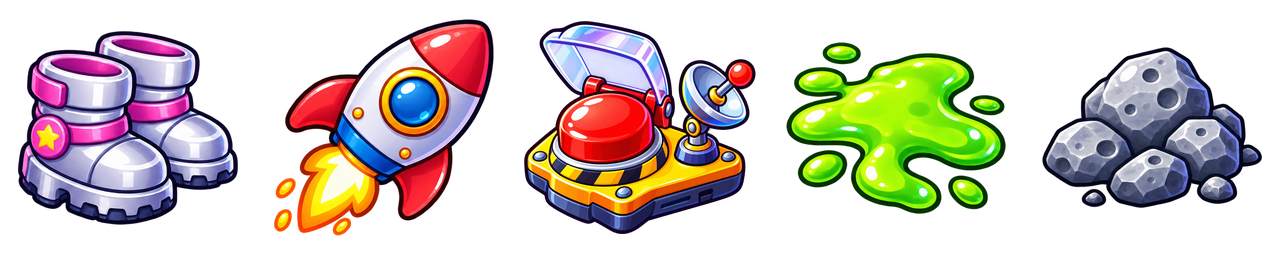
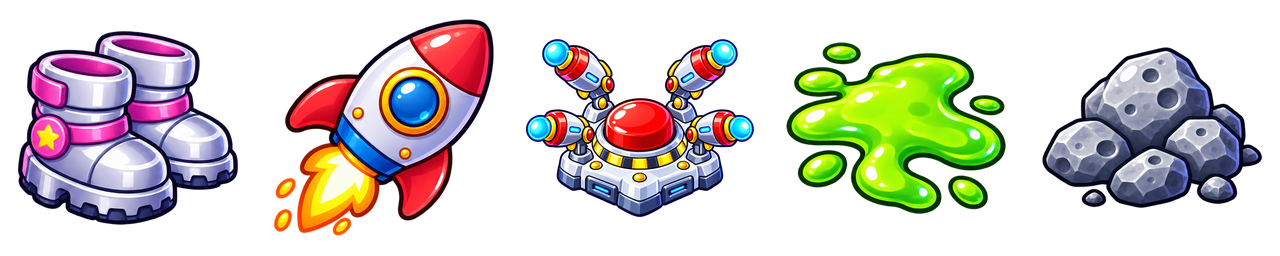
Deliver cloud floor, laser trigger and moon boot art; 36 unit and 34 silent browser checks passed

Changed region(s): [[0.4062, 0.0625, 0.5938, 0.9062]]

diff --git a/americangirldollrace/tracks.js b/americangirldollrace/tracks.js
@@ -206,7 +206,7 @@ window.TRACK_THEMES = {
     monster: "cloudtroll",
     projectileLanding: "snow",
     empStyle: "lightning",
-    name: "Cloud Kingdom", music: "assets/music/Cloud Map of Gold.mp3", dirtTop: 535, loopMode: "repeat", art: ["background", "card", "powerups", "projectile", "hurdle"],
+    name: "Cloud Kingdom", music: "assets/music/Cloud Map of Gold.mp3", dirtTop: 535, loopMode: "repeat", art: ["background", "card", "powerups", "projectile", "hurdle", "floor"],
     labels: { jump: "CLOUD PUFF", boost: "RAINBOW", emp: "THUNDERCLAP", oil: "RAIN PUDDLE", snowball: "HAILSTONES" },
     sounds: { emp: "storm_lightning" },
     mountOdds: { unicorn: 0.1, pegasus: 0.3, griffon: 0.1, broom: 0.05 }
@@ -216,6 +216,7 @@ window.TRACK_THEMES = {
     monster: "robot",
     empStyle: "laser",
     moonBoots: true,
+    powerupArtVersion: "20261023-laser1",
     name: "Moon Base", music: "assets/music/Pocketful of Comets Moon Base.mp3", dirtTop: 487, loopMode: "repeat", art: ["background", "card", "powerups", "projectile", "hurdle"],
     labels: { jump: "MOON BOOTS", boost: "ROCKET", emp: "LASER", oil: "SPACE GOO", snowball: "MOON ROCKS" },
     sounds: { emp: "pickup_laser" }

diff --git a/americangirldollrace/index.html b/americangirldollrace/index.html
@@ -327,7 +327,7 @@
     </main>
     <div id="barsHint" hidden><span class="bars-arrow" aria-hidden="true">↑</span> Swipe up to hide Safari’s bars · or Share → Add to Home Screen</div>
     <script src="config.js?v=81dc0cfb"></script>
-    <script src="tracks.js?v=b65096ff"></script>
+    <script src="tracks.js?v=d54b4896"></script>
     <script src="doll-art.js?v=05306016"></script>
     <script src="assets/audio/manifest.js?v=8761a783"></script>
     <script src="audio.js?v=baeb1965"></script>

diff --git a/americangirldollrace/tools/effects/moon-equipment/build.py b/americangirldollrace/tools/effects/moon-equipment/build.py
@@ -1,0 +1,29 @@
+"""Pack reviewed Moon Base props; keep untouched pickup pixels exact."""
+from pathlib import Path
+from PIL import Image
+import importlib.util, json, hashlib
+HERE=Path(__file__).resolve().parent; GAME=HERE.parents[2]
+spec=importlib.util.spec_from_file_location('packing',GAME/'tools/tracks/build.py');p=importlib.util.module_from_spec(spec);spec.loader.exec_module(p)
+source=p.clean(Image.open(HERE/'laser-source.webp'))
+icon=p.icon(source,(256,256),(228,228))
+before=Image.open(HERE/'space-powerups-before.webp').convert('RGBA');sheet=before.copy();sheet.paste(icon,(512,0))
+for n in [0,1,3,4]:
+ box=(n*256,0,(n+1)*256,256);assert before.crop(box).tobytes()==sheet.crop(box).tobytes()
+sheet.save(GAME/'assets/tracks/space/powerups.webp',lossless=True,exact=True,method=6)
+source=p.clean(Image.open(HERE/'boots-source.webp'));boots=Image.new('RGBA',(512,256));frames=[]
+for n,width in enumerate([150,110]):
+ cell=source.crop((n*source.width//2,0,(n+1)*source.width//2,source.height));b=p.bounds(cell)
+ assert b and b[0]>0 and b[1]>0 and b[2]<cell.width and b[3]<cell.height,b
+ art=cell.crop(b).resize((width,170),Image.Resampling.LANCZOS)
+ frame=Image.new('RGBA',(256,256));frame.alpha_composite(art,(128-width//2,244-170))
+ assert p.bounds(frame)[3]==244
+ boots.paste(frame,(n*256,0));frames.append({'bounds':p.bounds(frame),'sole':[128,244]})
+boots.save(GAME/'assets/moon_boot_sprites.webp',lossless=True,exact=True,method=6)
+review=Image.new('RGB',(768,512))
+for y,color in [(0,'#fff9ed'),(256,'#18233c')]:
+ bg=Image.new('RGBA',(768,256),color);bg.alpha_composite(icon,(0,0));bg.alpha_composite(boots,(256,0));review.paste(bg.convert('RGB'),(0,y))
+review.save(HERE/'alpha-review.webp',quality=90,method=6)
+report={'unchangedCells':[0,1,3,4],'boots':frames,'assets':{}}
+for name in ['assets/tracks/space/powerups.webp','assets/moon_boot_sprites.webp']:
+ path=GAME/name;report['assets'][name]={'size':Image.open(path).size,'sha256':hashlib.sha256(path.read_bytes()).hexdigest()}
+(HERE/'report.json').write_text(json.dumps(report,indent=2)+'\n')

diff --git a/americangirldollrace/tools/tracks/cloud-floor/build.py b/americangirldollrace/tools/tracks/cloud-floor/build.py
@@ -1,0 +1,20 @@
+"""Pack six floor slabs, removing only near-zero-alpha generation noise."""
+from pathlib import Path
+from PIL import Image
+import importlib.util,json,hashlib
+HERE=Path(__file__).resolve().parent;GAME=HERE.parents[2]
+spec=importlib.util.spec_from_file_location('packing',GAME/'tools/tracks/build.py');p=importlib.util.module_from_spec(spec);spec.loader.exec_module(p)
+source=p.clean(Image.open(HERE/'source.webp'));cells=p.atlas_cells(source)
+sheet=Image.new('RGBA',(2304,640));frames=[]
+for n,cell in enumerate(cells):
+ b=p.bounds(cell);assert b and b[0]>0 and b[1]>0 and b[2]<cell.width and b[3]<cell.height,b
+ # The art is a floor cross-section: crop inside its straight bottom cut.
+ art=cell.crop((b[0],b[1],b[2],b[3]-3)).resize((756,280),Image.Resampling.LANCZOS)
+ frame=Image.new('RGBA',(768,320));frame.alpha_composite(art,(6,40));sheet.paste(frame,(n%3*768,n//3*320))
+ frames.append({'bounds':p.bounds(frame),'backEdge':40})
+target=GAME/'assets/tracks/clouds/floor.webp';sheet.save(target,lossless=True,exact=True,method=6)
+(HERE/'report.json').write_text(json.dumps({'size':sheet.size,'frames':frames,'sha256':hashlib.sha256(target.read_bytes()).hexdigest()},indent=2)+'\n')
+review=Image.new('RGB',(2304,1280))
+for y,c in [(0,'#94c8ee'),(640,'#18233c')]:
+ bg=Image.new('RGBA',sheet.size,c);bg.alpha_composite(sheet);review.paste(bg.convert('RGB'),(0,y))
+review.save(HERE/'alpha-review.webp',quality=90,method=6)

diff --git a/americangirldollrace/image-requests.md b/americangirldollrace/image-requests.md
@@ -213,7 +213,7 @@ Sizes are final pixel sizes. The game scales art down but never up.
 > Beach's R8 jump cell is now a pool-ring spring, with its new POOL SPRING label.
 > The §8 riding toys are in for fourteen dolls; K3 (trial falls) and the
 > §8.1 icons R10, R12–R14 are delivered.
-> **Current queue:** §21 Cloud Kingdom floor clouds (CL1); §22 Moon Base laser trigger (LZ1); §23 moon boots (MB1). Everything else is delivered and checked; see delivery notes below.
+> **Current queue:** §23 moon boots (MB1). Everything else is delivered and checked; see delivery notes below.
 > Delivered: Hermione/Lily/Mira action trial, all §10.2 shared sprites and both
 > §9 monsters; retained sources, calibration and in-game reviews accompany them.
 
@@ -917,7 +917,7 @@ flight cells use uniform scale and fixed head/body alignment. Shared crow art
 and CROWS label registered; actual flight, circling and both directions passed
 review. Sources, prompts, export report and proofs: `tools/effects/autumn-crows/`.
 
-## 21. Open: Cloud Kingdom floor clouds
+## 21. Delivered: Cloud Kingdom floor clouds
 
 Cloud Kingdom's course is now a row of separate clouds (game-terrain.js):
 each cloud sits a little higher or lower than the last (steps of up to 12
@@ -952,7 +952,7 @@ floor reads as separate soft clouds one after another, steps between them
 look natural, dolls' feet sit on the tops, and each gap looks like a hole
 between two clouds.
 
-## 22. Open: Moon Base laser trigger
+## 22. Delivered: Moon Base laser trigger
 
 Moon Base's EMP is LASER: lasers zap everyone in range. Its pickup today
 (E14, a red console button under a flip-up cover) doesn't say "lasers".
@@ -988,3 +988,11 @@ Acceptance: on Moon Base (or the workbench on Moon Base) take MOON BOOTS:
 standing, running, pushing, falling back and landing, both boots cover the
 feet in the same boots as the jumping pose, facing the right way.
 
+
+CL1/LZ1 delivered: six pastel cloud-floor cells at2304×640 with transparent
+rounded ends and back edge40; actual overlapping steps, open gaps, doll feet
+and right-to-left scrolling reviewed. Laser trigger has four outward ray guns
+and a central red button; other four decoded pickup cells remain identical.
+36 unit and34 silent browser checks passed. Sources/prompts/proofs:
+`tools/tracks/cloud-floor/` and `tools/effects/moon-equipment/`.
+MB1 side/front boot art is generated and exported; pose integration is next.
